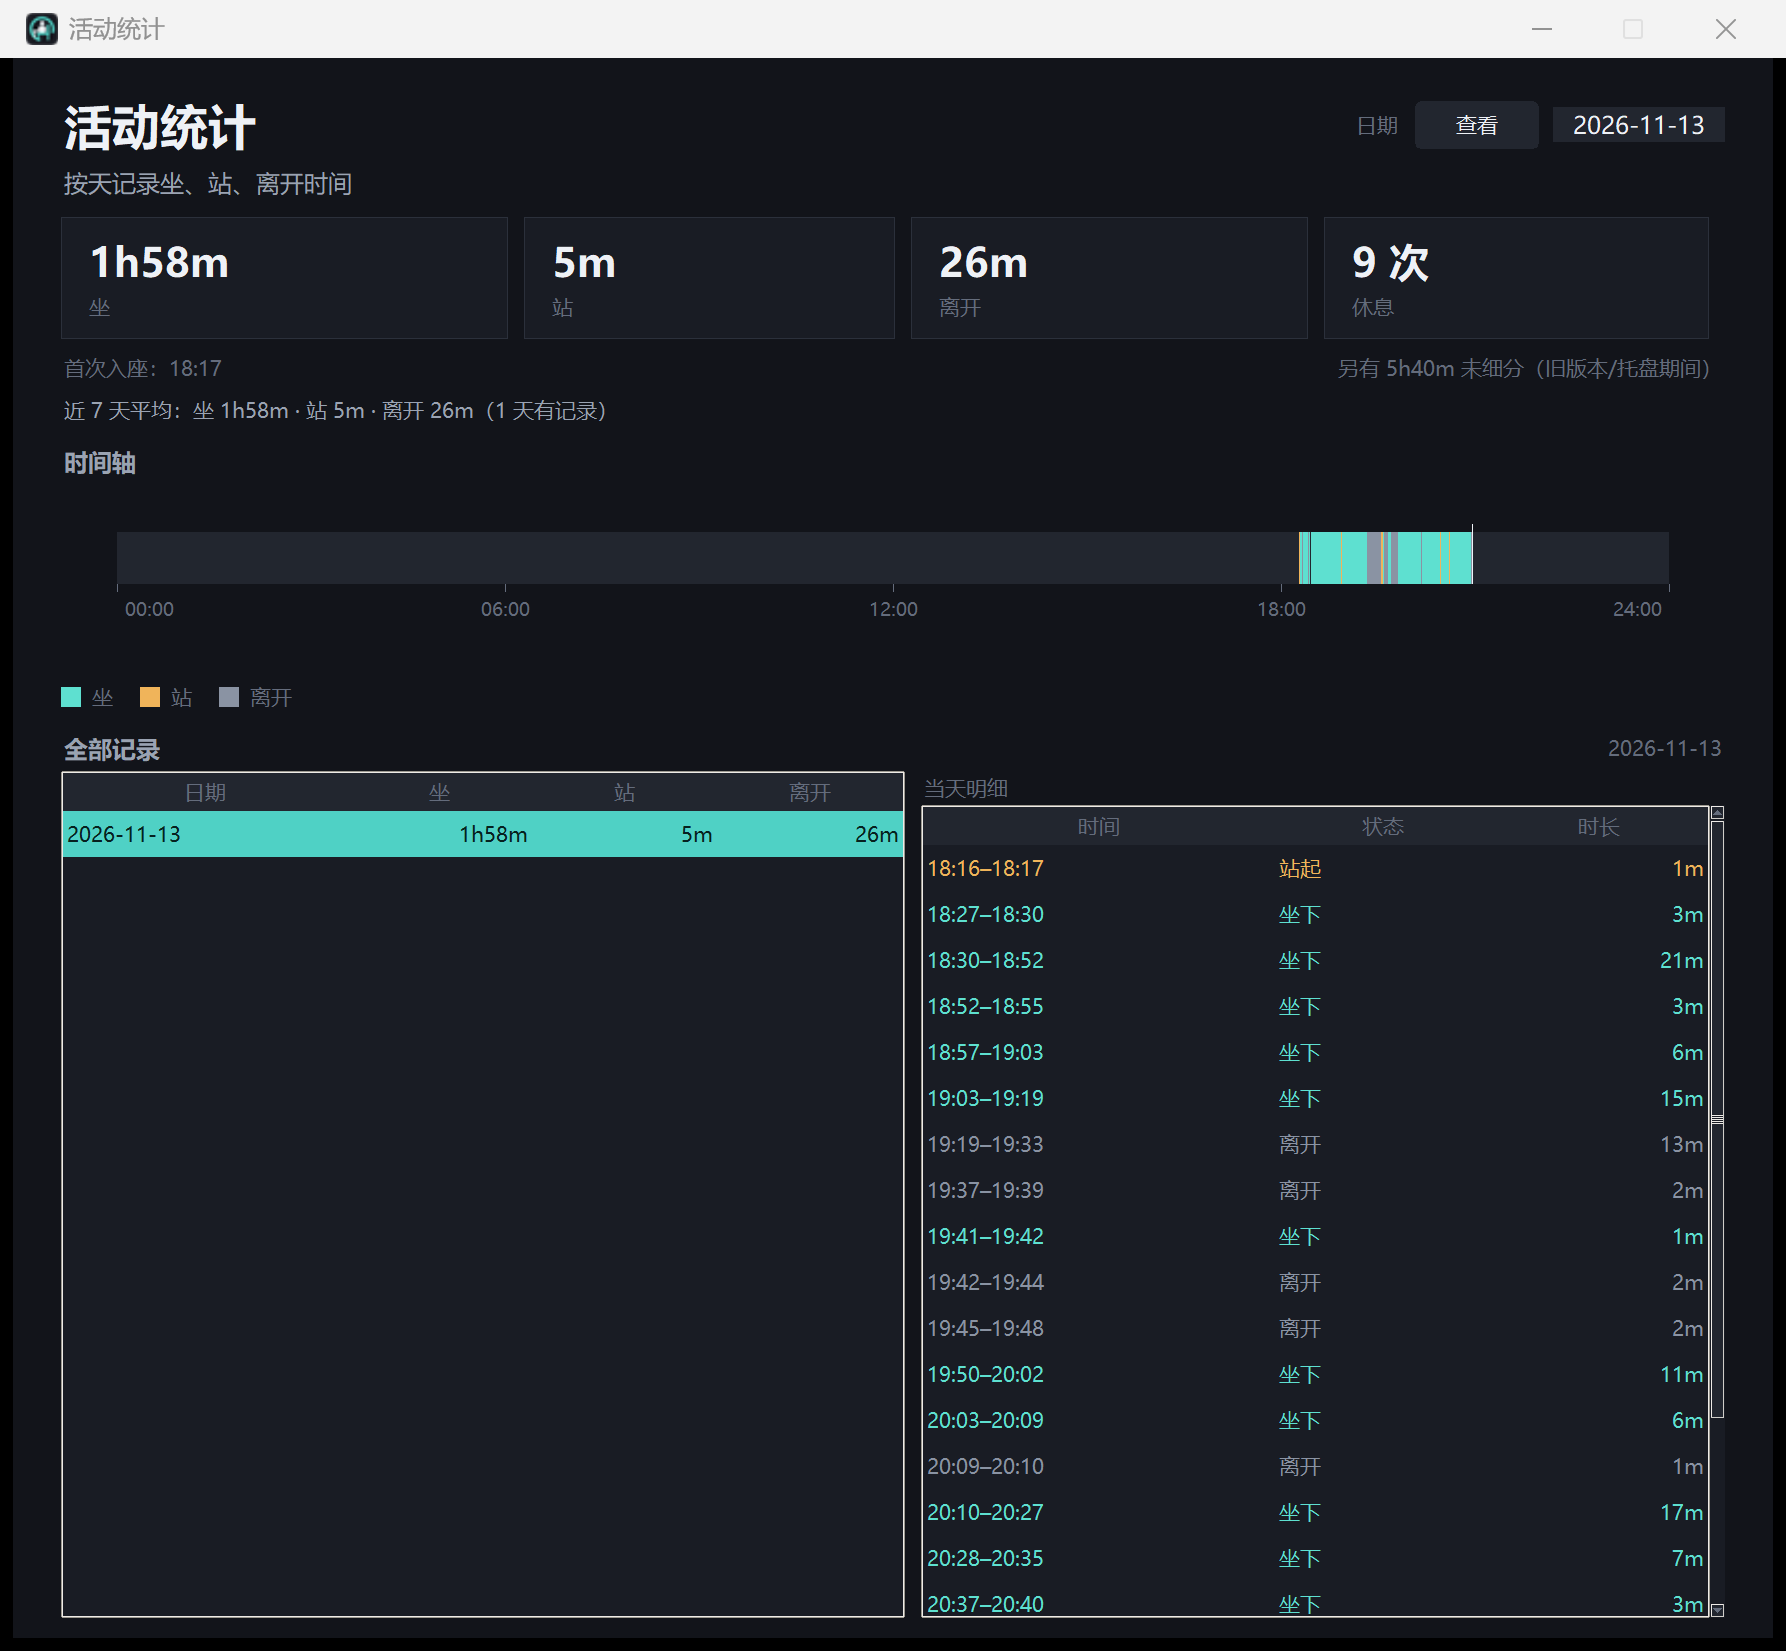
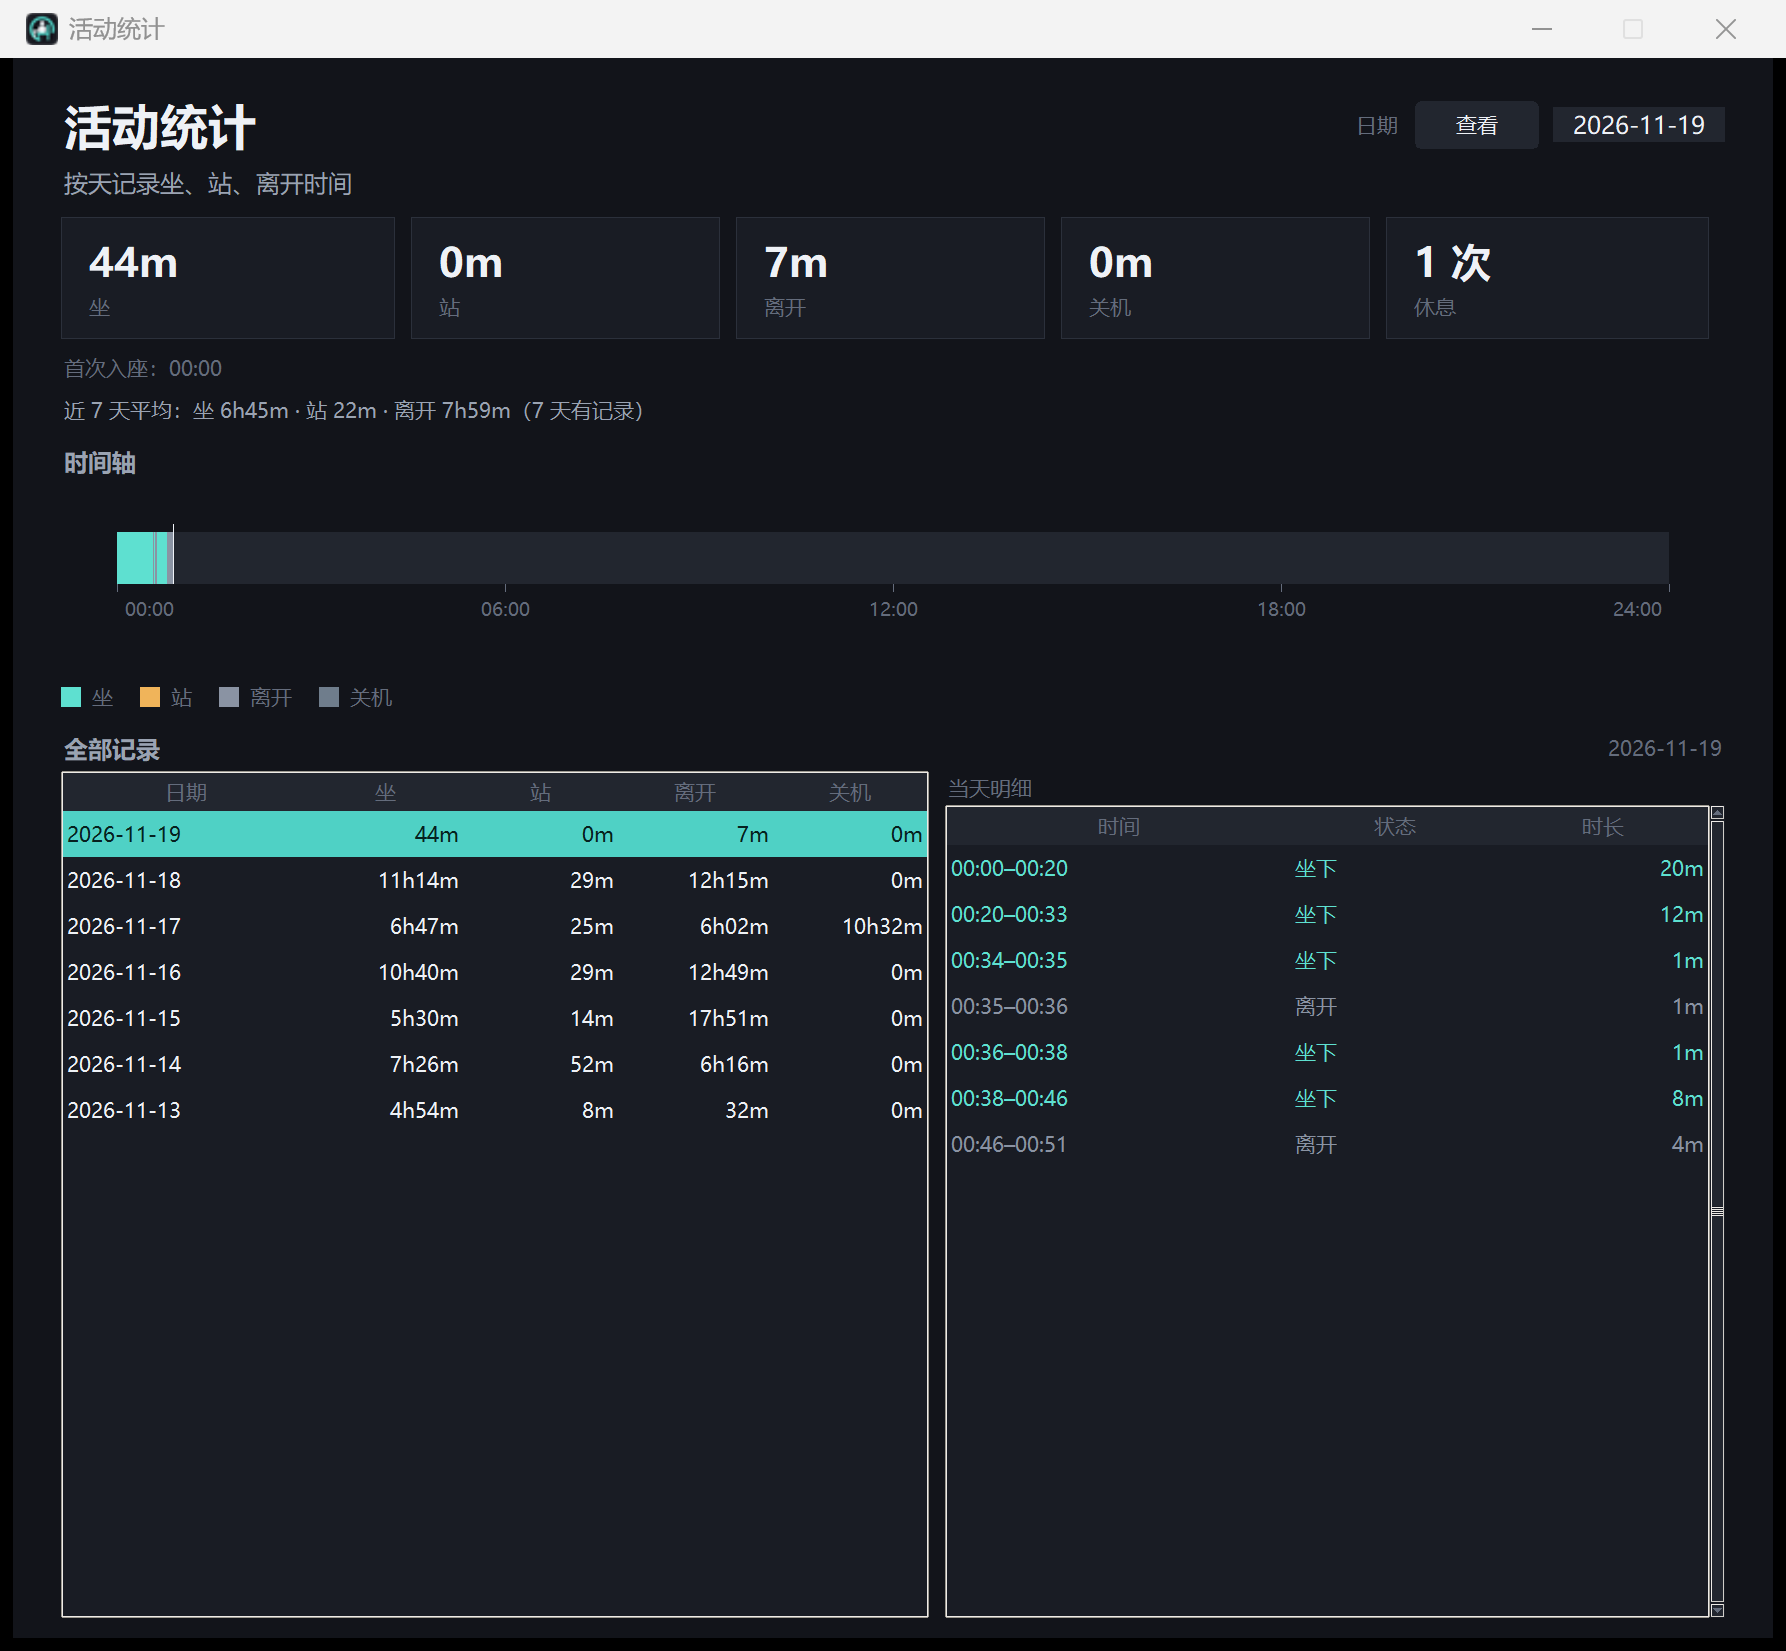
docs: describe off/shutdown records

diff --git a/README_ZH.md b/README_ZH.md
@@ -82,7 +82,8 @@ English UI:
 | 开机自启 | 写入 HKCU Run，登录后直接进托盘，不占任务栏 |
 | 托盘重启 | 右键托盘图标 →「重启软件」，自动等旧实例退出后重启，更新后不用找快捷方式 |
 | 摄像头自恢复 | 长时间运行后画面卡住/设备掉线时，看门狗自动重连；检测器每小时重建 |
-| 睡眠/唤醒 | 电脑睡眠或挂起后的长缺口记为离开，不会把最后状态延续成几小时；历史异常长站立会自动修正 |
+| 睡眠/唤醒 | 电脑睡眠、休眠或关机期间记为「关机」，不会把最后状态延续成几小时；超长站立/通宵坐姿会自动修正 |
+| 关机记录 | 软件未运行的时间在下次启动时补成「关机」，不记成坐/站/离开 |
 | 雪花/黑屏检测 | 检测到电视雪花噪声或全黑画面，几秒内自动重启摄像头 |
 | 定时重启 | 设置里可设“摄像头定时重启”分钟数（0=关闭），适合长时间运行不稳定的驱动 |
 | 高 DPI | 适配 3.5K/200% 缩放，界面与文字原生清晰；跨不同缩放比例的屏幕时保持窗口逻辑尺寸 |

diff --git a/README.md b/README.md
@@ -71,7 +71,9 @@ as soon as you stand.
 - **Camera auto-recovery** — if the feed stalls or the device drops after hours
   of running, a watchdog reconnects automatically; detectors are rebuilt hourly.
 - **Sleep/resume aware** — a long wall-clock gap (computer sleep or suspend)
-  is recorded as away, not as the last posture for hours.
+  is recorded as **Off**, not as the last posture for hours.
+- **Shutdown time** — periods when SitGuard was not running (PC off, restart,
+  manual quit) are filled in as Off on the next start, never as sitting.
 - **Snow / black frame detection** — corrupted camera output (TV-static noise or
   an all-black feed) is detected within seconds and the device is restarted.
 - **Optional scheduled restart** — Settings → Restart camera every N minutes
